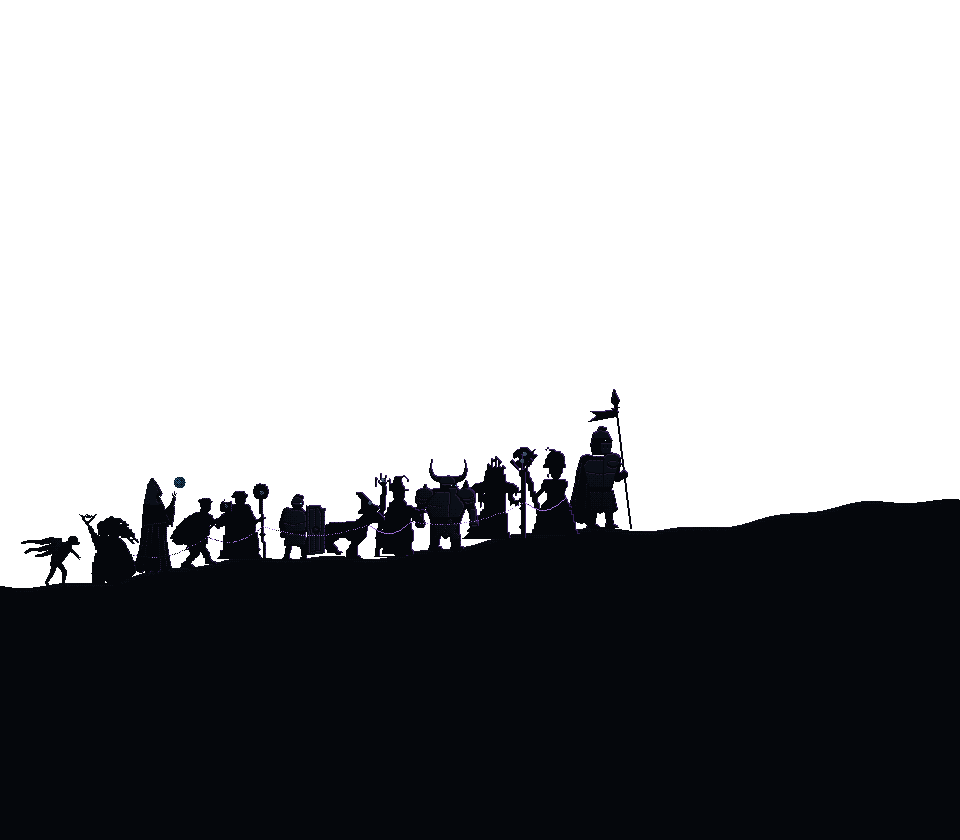
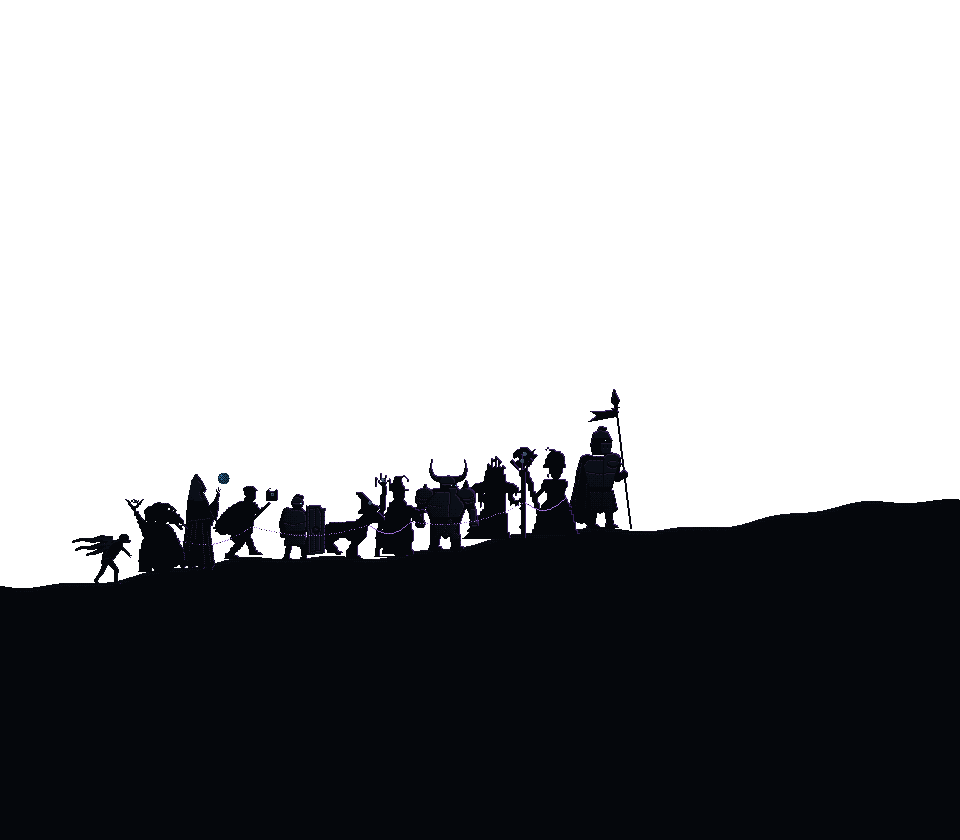
Prologue: Dee out of the moot and the procession
Eric, 2026-11-08, of John Dee in the prologue: "Yes, remove him" - his
grey robe and violet light read as the player, who is never taken (the
same reason panel 2 lost him).

The moot: four round the fire, not five. Dee stood behind it; the four
disciplines now stand square round the fire, a quarter turn apart and
half a quarter off the way in, each close to where he stood among five,
so the ring holds no gap where Dee was.

The procession: six wizards, not seven. Dee walked fifth; his slot is
gone and the line closed up, one figure shorter at its tail, which is
off the left of every screen.

Lines, holds and drift unchanged; only moot-mid, taken-back and
taken-mid change, 0 off-contract pixels, the other six panels
byte-identical. DEE, ROSTER's fifth entry and ROBE["dee"] removed from
the generator, nothing else draws him. .ai/prologue.md: the moot's and
the procession's rows, and the rule that names who the prologue shows.

Changed region(s): [[0.0312, 0.5571, 0.2812, 0.7119]]

diff --git a/tools/art/prologue.py b/tools/art/prologue.py
@@ -342,26 +342,25 @@ def standing_stone(c, x, yb, w, h, seed, lean=0.0, ramp=None, warm=None, toward=
 # at whatever size the panel needs - filled flat, rimmed by the light of the panel, and lit only at
 # the staff or the hand that carries his light in the game.
 #
-# WHICH OF THEM: the moot and the fall show the wizards a fresh save already sees - the four
-# disciplines and John Dee. The procession ("He took every wizard who might rival him", once "He took
-# them all") shows every one of them, the secret three as well: Tituba, Vainamoinen and Laelaps are
+# WHICH OF THEM: the moot and the fall show the four disciplines, the wizards a fresh save already sees
+# and the four the Archmage frees in the break. The procession ("He took every wizard who might rival
+# him", once "He took them all") shows the secret three as well: Tituba, Vainamoinen and Laelaps are
 # secret on the character select until their chapters open (UnlockCatalog's secretUntilStage), and Eric
-# chose to show them here anyway (2026-11-01, "Show them") - "every" has to mean every, and a dark shape
-# on a ridge names nobody.
+# chose to show them here anyway (2026-11-01, "Show them") - a dark shape on a ridge names nobody.
+# NEVER JOHN DEE (Eric, 2026-11-08, "remove the purple wizard, since he is the wizard that you are, and you
+# do not get captures by him", then "Yes, remove him" for the moot and the procession): his grey robe and
+# violet light read as the player, and the player is never taken.
 CHARS = os.path.join(ROOT, "assets", "bonelight", "characters")
 CELL = 48
 # The rows a wizard stands in on his cell: feet on row 46, the contact line on 47, the hat near row 2.
 CELL_STAND = 46.0
 
-# (sprite prefix, the ramp his light is in the sprite, the ramp it burns here). Dee's orb is the
-# darkness ramp in the game, but in the prologue that ramp as light is the dark wizard's alone
-# (.ai/prologue.md, rules), so here Dee burns arcane.
+# (sprite prefix, the ramp his light is in the sprite, the ramp it burns here).
 PYRO = ("pyromancer", "fire", "fire")
 FROST = ("frostweaver", "ice", "ice")
 STORM = ("stormcaller", "lightning", "lightning")
 GEO = ("geomancer", "earth", "earth")
-DEE = ("dee", "darkness", "arcane")
-ROSTER = [PYRO, FROST, STORM, GEO, DEE]
+ROSTER = [PYRO, FROST, STORM, GEO]
 # The three the player frees, for the procession only (above). Tituba's staff head is her water,
 # Vainamoinen's his grass; Laelaps carries no light of his own, so his falls back to his middle unless
 # the gold of his collar star is found.
@@ -512,9 +511,8 @@ def light_at(who, cx, yb, h, strip="idle", frame=0, facing=1):
 
 
 # In the moot, before the fall, each wears the deep end of their own colour - the only time the prologue
-# lets them have one - so the circle reads as five different people at a glance, not five shadows.
-ROBE = {"pyromancer": R[4], "frostweaver": M["azure"][4], "stormcaller": G[4], "geomancer": M["verdant"][4],
-        "dee": ST[4]}
+# lets them have one - so the circle reads as four different people at a glance, not four shadows.
+ROBE = {"pyromancer": R[4], "frostweaver": M["azure"][4], "stormcaller": G[4], "geomancer": M["verdant"][4]}
 
 
 EYE = (AR[0], AR[1])
@@ -1429,7 +1427,7 @@ def ward(c, cx, cy, rx, ry, A=None, ground=None, pool=True):
 # =========================================================================== panels
 def p_moot():
     """1. The circle where the wizards met, before. Every wizard's light is still in the world:
-    a fire in the middle of a warded ring, and round it their staves, each a different element.
+    a fire in the middle of a warded ring, and round it the four disciplines' staves, each a different element.
     The last time the screen holds more than one warm light."""
     back, mid, fore = frame(True), frame(), frame()
     sky(back, 0, 400, [OCC, S[4], V[4], V[3], V[2]])
@@ -1476,9 +1474,13 @@ def p_moot():
         y = fy - 4 + math.sin(a) * 60
         depth = (y - (fy - 64)) / 128.0
         items.append((y, "stone", x, depth, 900 + i))
-    # Five of the game's wizards round the fire, each staff burning his own element. None stands at the
-    # front centre, where he would cover the fire; the one behind it holds his light up over it.
-    for i, (a, who) in enumerate([(0.85, PYRO), (2.2, FROST), (3.25, STORM), (4.71, DEE), (5.55, GEO)]):
+    # Four of the game's wizards round the fire, each staff burning his own element: the disciplines, the four
+    # he takes in the next panel and the Archmage frees in the break. Dee stood behind the fire until Eric,
+    # 2026-11-08, of his grey robe and violet light: "Yes, remove him" - he reads as the player, who is never
+    # taken. The four stand square round the fire, a quarter turn apart and half a quarter off the way in, each
+    # close to where he stood among five, so the ring holds no gap where Dee was. None stands at the front
+    # centre, where he would cover the fire.
+    for i, (a, who) in enumerate([(0.79, PYRO), (2.36, FROST), (3.93, STORM), (5.50, GEO)]):
         x = fx + math.cos(a) * 128
         y = fy + math.sin(a) * 32
         items.append((y, "wizard", x, who, 0))
@@ -2123,7 +2125,7 @@ def p_tide():
 def p_taken():
     """4. "He took every wizard who might rival him." The game's wizards led away along a ridge against his light, bound
     wrist to wrist by his chain, their staves dark, their light drawn out of them toward the tower.
-    Silhouettes only, of every wizard in the game, the three the player frees included (Eric)."""
+    Silhouettes only, the three the player frees included (Eric), and never Dee, who reads as the player."""
     back, mid, fore = frame(True), frame(), frame()
     sky(back, 0, 560, [OCC, S[4], V[4], V[3], V[3], V[2]])
     stars(back, (0, 0, FW, 300), 140, 13, colors=[K[2], V[0]])
@@ -2144,12 +2146,14 @@ def p_taken():
         if ridge(x + 1) < ridge(x - 1):
             mid.set(x, top, V[4])
     order = [("knight", 0), ("wiz", 0), ("wiz", 1), ("bruiser", 0), ("wiz", 2), ("wiz", 3), ("shielder", 0),
-             ("wiz", 4), ("wiz", 5), ("caster", 0), ("wiz", 6), ("runner", 0)]
-    # Seven of the game's wizards, walking (each a different frame of his own walk), staves dark,
-    # Tituba, Vainamoinen and Laelaps among the first four. Twelve figures where there were ten, so they
-    # walk a little closer together; and the wizards walk near the head of the line, by the tower,
-    # because the phone's canvas crops the panel's sides and shows the head of it, not the tail.
-    taken = [(TITUBA, 2), (FROST, 1), (VAINAMOINEN, 6), (LAELAPS, 4), (DEE, 5), (PYRO, 3), (STORM, 7)]
+             ("wiz", 4), ("caster", 0), ("wiz", 5), ("runner", 0)]
+    # Six of the game's wizards, walking (each a different frame of his own walk), staves dark,
+    # Tituba, Vainamoinen and Laelaps among the first four; and the wizards walk near the head of the line,
+    # by the tower, because the phone's canvas crops the panel's sides and shows the head of it, not the
+    # tail. Dee walked fifth until Eric, 2026-11-08: "Yes, remove him" (his grey robe and violet light read
+    # as the player, who is never taken); his place closed up, the line one figure shorter at its tail,
+    # which is off the left of every screen, so no gap shows where he walked.
+    taken = [(TITUBA, 2), (FROST, 1), (VAINAMOINEN, 6), (LAELAPS, 4), (PYRO, 3), (STORM, 7)]
     x = 600
     rng = random.Random(17)
     wrists = []

diff --git a/.ai/prologue.md b/.ai/prologue.md
@@ -12,10 +12,10 @@ choice below comes from it.
 
 | # | Panel (`name`) | Line | What it is |
 |---|---|---|---|
-| 1 | The moot (`moot`) | *The stones where we used to meet.* | The Broken Circle before (`.ai/campaign.md` chapter 3): a ring of standing stones on the heath at night, a warded fire in the middle, and round it five of the game's own wizards (below), each staff burning his own element, each in the deep end of his own colour. The only frame with more than one warm light in it - every light the world had is still in it. |
+| 1 | The moot (`moot`) | *The stones where we used to meet.* | The Broken Circle before (`.ai/campaign.md` chapter 3): a ring of standing stones on the heath at night, a warded fire in the middle, and round it four of the game's own wizards (below) - the disciplines, standing square round the fire - each staff burning his own element, each in the deep end of his own colour. The only frame with more than one warm light in it - every light the world had is still in it. |
 | 2 | He comes (`throne`) | *He came here first.* | **Animated** (2026-11-08, Eric: *"it's hard to see what he's doing in the background, it should show him lifting each of the wizards into the air to capture them"*, then *"the silhouette of 4 wizards, cast in shadow, in the background, with the dark wizard in the foreground. remove the purple wizard, since he is the wizard that you are"*; below). **Only his silhouette**, in the foreground and with his back to us: a tall cowled shape inside a collar of points, his black sun behind his head as an eclipse, one arm raised and reaching up into the scene. No face, folds, trim or keys; the shadow running out of his hem has eyes in it. Beyond him, on the far crest of the moot's circle (its stones thrown down outward), the four disciplines - the four the break frees, in its order - stand cast in shadow against his sun's glow, each with nothing on him in colour but his own light. Then he takes them one at a time, far to near: his reach leaves his hand, a hoop of his violet closes on one and lifts it into the sky, where it hangs in his grip while its light streams back into his hand. They end in an arc that curves down into the hand. Never Dee, whose grey robe and violet light read as the player, who is never taken. |
 | 3 | The tide (`tide`) | - | **Animated** (2026-11-07, Eric: the army must *rush* over the horizon, not sit as a layer sliding over a picture). His shadows over the land: a village at the foot of a hill, still lit and quiet for a breath - then heads come up behind the crest, clipped by the ridge line, the wave bursts over it (the panel's impact beat: cold speed lines, a shake, his violet), and the flood pours down the slope toward the village, every body on its own lane with its feet on the ground, growing as it comes, the front rank striding up big by the village as the panel ends. The last frame is the old still: the flood arrived. Every one of them wears his mark in its eyes. |
-| 4 | Taken (`taken`) | *He took every wizard who might rival him.* | The wizards led along a ridge to his tower between his guards, bound wrist to wrist by a chain of his light, their own light drawn out of them toward the eclipse over the tower. |
+| 4 | Taken (`taken`) | *He took every wizard who might rival him.* | The wizards - six of them, the secret three among them, never Dee - led along a ridge to his tower between his guards, bound wrist to wrist by a chain of his light, their own light drawn out of them toward the eclipse over the tower. |
 | 5 | The one he missed (`missed`) | *You are the one he missed.* | **Animated** (below): the hiding. The broken ring's near stones in a row, and in the row, between two of them, the player - the title's figure, facing us, still as a stone, his light put out to an ember. Beyond the row his creatures search: a hound trots along it nose down, stops at his shoulder and works the air beside him - his ember goes out - and goes on; a caster in the gap watches; two small ones turn their heads; pair by pair the eyes in the dark turn away and back. They never find him. |
 | 6 | The break (`break`) | *You rescued them, and they stand with you.* | **Animated.** The freeing (`.ai/cutscenes.md`, built 2026-11-02 from Eric's *"Include a cutscene where the blue robed wizard frees the four starting wizards"*): the four disciplines on their knees in his chain, the Archmage in the middle of them, his light coming up and breaking it, their own lights coming back. |
 | 7 | The five (`five`) | *Four are free. The rest still wait for you.* | The four standing where they knelt, each light his own again, and the Archmage in his warded circle among them. |
@@ -57,7 +57,7 @@ Nothing else is said: no title card, no narration, nothing an image is already s
   the far side let back to occlusion (`form_light`). How much of it a body gets goes by its size
   (`_Fig.lod`): the tide's flood stays shapes. The procession's knight carries his spear sloped back,
   because upright its head stood in front of the tower and was lost.
-- **The wizards are the game's own, and never a secret one.** Eric, 2026-11-01, of the anonymous
+- **The wizards are the game's own, and never Dee.** Eric, 2026-11-01, of the anonymous
   robe-and-hat figure that stood in panels 1, 2 and 4: *"In the intro, the wizard silhouettes look
   goofy. Use the silhouettes of the characters in the game."* Each is now cut from his real sprite
   (`roster_figure` / `silhouette` in the generator: the 48 cell's pixels, contact line and sparks
@@ -66,11 +66,15 @@ Nothing else is said: no title card, no narration, nothing an image is already s
   his death strip once the hoop has him (the flinch), his walk in panel 4. In panel 2 they are cast in
   shadow - occlusion, a rim of violet on the edge that faces the light, and nothing in colour but each one's
   own light - and told apart by outline alone: the Pyromancer's lantern and cape, the Geomancer's bulk and
-  fork, the Frostweaver's crown and trident, the Stormcaller's hair and raised fork. **Only the five whose silhouette a fresh save already shows** -
-  the four disciplines and John Dee. Tituba, Vainamoinen and Laelaps are secret until their chapters
-  open (`.ai/side-events.md`, "Secret wizards"), and the prologue plays before any chapter has, so it
-  would print the answer before the question. Dee's orb is the darkness ramp in the game; here it burns
-  arcane, because darkness as light is the dark wizard's alone.
+  fork, the Frostweaver's crown and trident, the Stormcaller's hair and raised fork. **The moot and panel 2
+  show only the four disciplines**, whose silhouettes a fresh save already shows. Tituba, Vainamoinen and
+  Laelaps are secret until their chapters open (`.ai/side-events.md`, "Secret wizards"), and the prologue
+  plays before any chapter has; only the procession shows them, because Eric chose it (2026-11-01, "Show
+  them": "every" has to mean every, and a dark shape on a ridge names nobody). **Never John Dee** (Eric,
+  2026-11-08, of panel 2: *"remove the purple wizard, since he is the wizard that you are, and you do not
+  get captures by him"*, then *"Yes, remove him"* for the moot and the procession): his grey robe and violet
+  light read as the player, and the player is never taken. He stood behind the moot's fire and walked fifth
+  in the chain; the four in the moot now stand square round the fire, and the chain closed up behind him.
 - **The player is the light.** The hiding and the road have one warm light each, and it is his; the
   break and the five are where his light gives the four theirs back.
 
